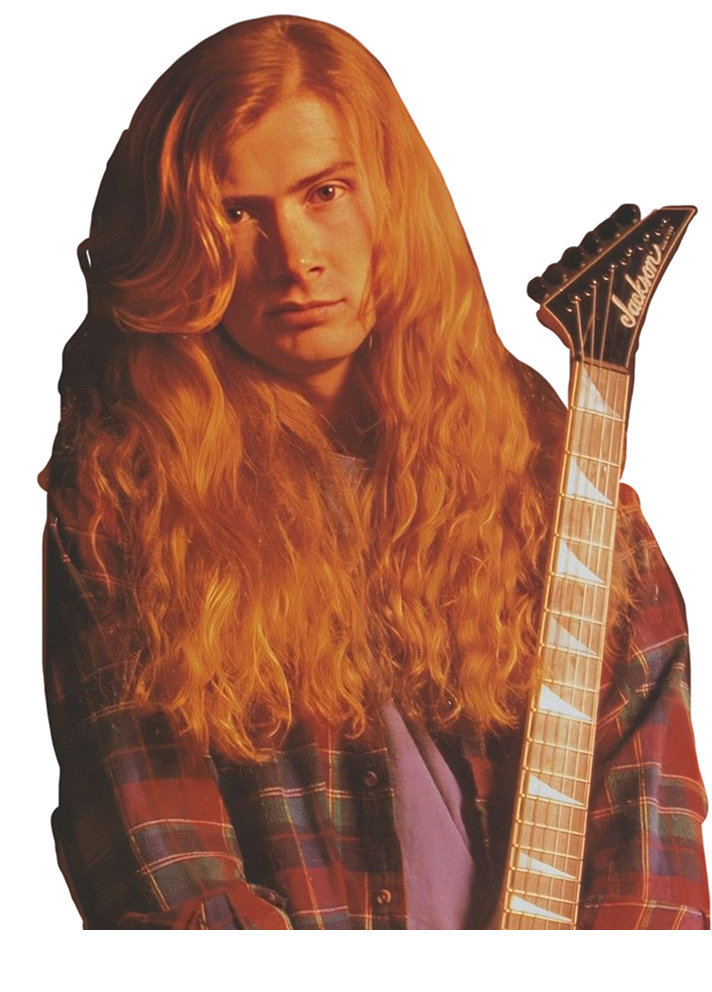
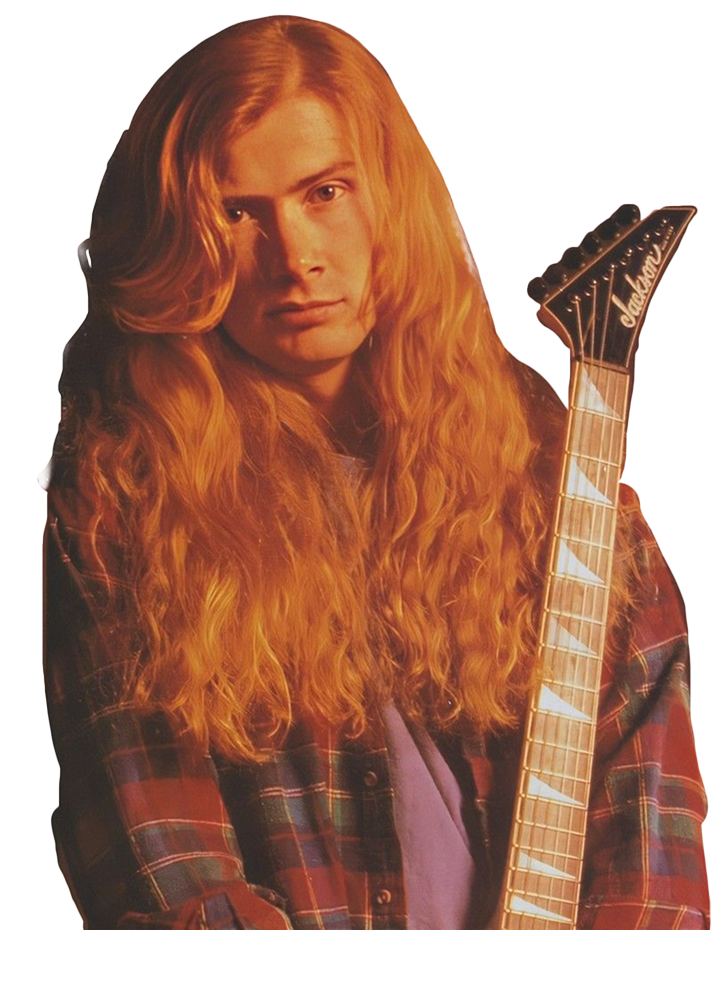
main.css code created and image edit
Created a code to main.css and edited some images

diff --git a/css/main.css b/css/main.css
@@ -1,0 +1,149 @@
+.hidden { 
+    display: none; 
+}
+
+body { 
+  font-family: Arial, Helvetica, sans-serif;
+  background-color: rgb(0, 0, 0);
+  color: white;
+}
+
+header {
+    background-color: rgb(255, green, blue);
+    padding: 10px 0; 
+}
+
+#main-logo { 
+    width: 300px; 
+    display: block;
+    margin: 0 auto;
+}
+
+#character_nav {
+    padding-top: 40px;
+    padding-bottom: 40px;
+    background-color: rgb(90, 0, 0);
+    background-image: url('../images/heroes_bg.jpg');
+    background-repeat: no-repeat;
+    background-size: cover;
+    background-blend-mode: multiply;
+}
+
+#characters { 
+    list-style-type: none; 
+    padding: 0;
+    text-align: center;
+}
+
+#characters li { 
+    display: inline;
+    margin: 10px 10px;
+    cursor: pointer;
+}
+
+#characters li img {
+    padding: 10px;
+    border: solid 2px orange;
+    transition: all .3s ease-in-out;
+    background-color: rgb(255, 255, 255);
+    box-shadow: 0px 0px 10px 0px ;
+}
+
+#characters li a { 
+    text-decoration: none; 
+}
+
+#characters li img:hover { 
+    filter:brightness(1.5);
+    border-radius: 100%;
+}
+
+#instructions { 
+    padding: 20px; 
+}
+
+#instructions h3  {
+    font-size: 32px;
+    text-align: center;
+    margin-bottom: 14px;
+}
+
+#instructions p {  
+    font-size: 18px;
+    line-height: 22px;
+    text-align: center;
+}
+
+footer {
+    color: white;
+    padding: 20px 0;
+    text-align: center;
+}
+
+#main-footer {
+    height: 80px;
+    background-color:rgb(178, 0, 0);
+}
+
+
+
+.lightbox {
+    width: 100vw;
+    height: 100vh;
+    position: absolute;
+    top: 0;
+    left: 0;
+    z-index: 2;
+    background-color: rgba(0, 0, 0, 0.85);
+    display: none;
+    background-repeat: no-repeat;
+    background-size: 70vh;
+    background-position: 40px bottom;
+}
+
+.lightbox:target {
+    display: block;
+}
+
+#lightbox1 {
+    background-image: url(../images/james_lb_bg.png);
+}
+
+#lightbox2 {
+    background-image: url(../images/dave_lb_bg.png);
+}
+
+#lightbox3 {
+    background-image: url(../images/kerry_lb_bg.png);
+}
+
+#lightbox4 {
+    background-image: url(../images/ian_lb_bg.png);
+}
+
+.lightbox-close {
+    color: white;
+    font-size: 36px;
+    font-weight: bold;
+    text-decoration: none;
+    margin-left: 90vw;
+    transition: all .5s ease-in-out;
+}
+
+.lightbox-close:hover {
+    color: red;
+}
+
+.lightbox section {
+    width: 500px;
+    margin-left: 40%;
+    margin-top: 50px;
+}
+
+.lb-heading {
+    font-size: 50px;
+}
+
+.lightbox p {
+    line-height: 26px;
+}
